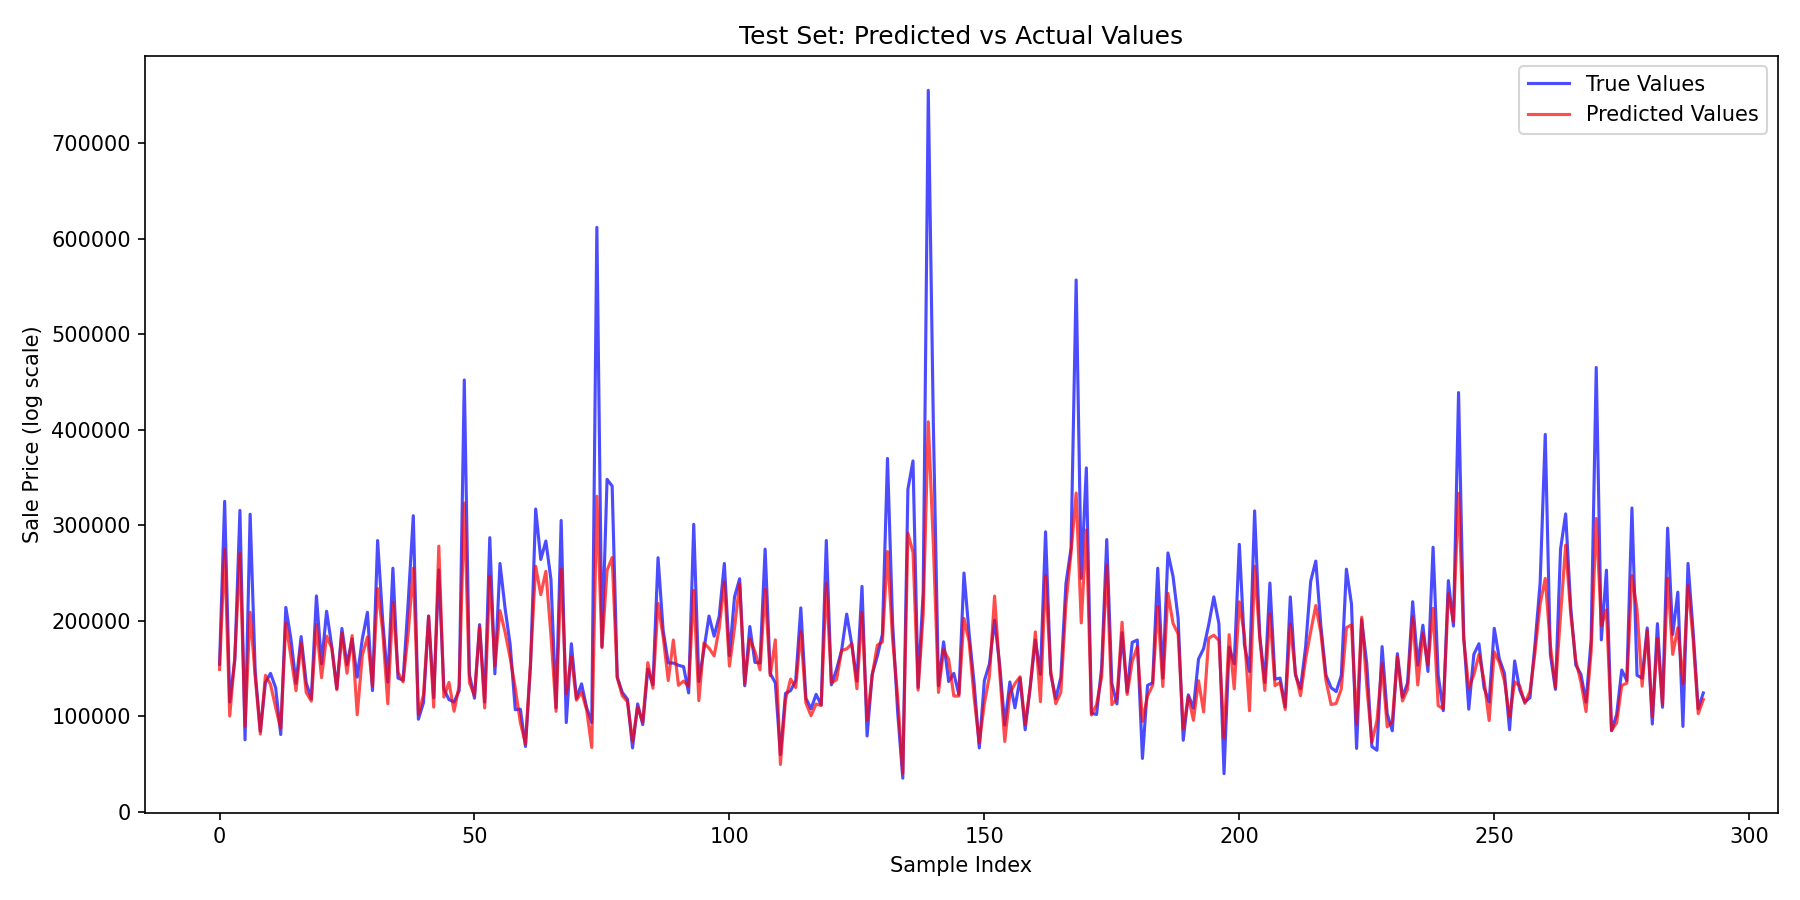
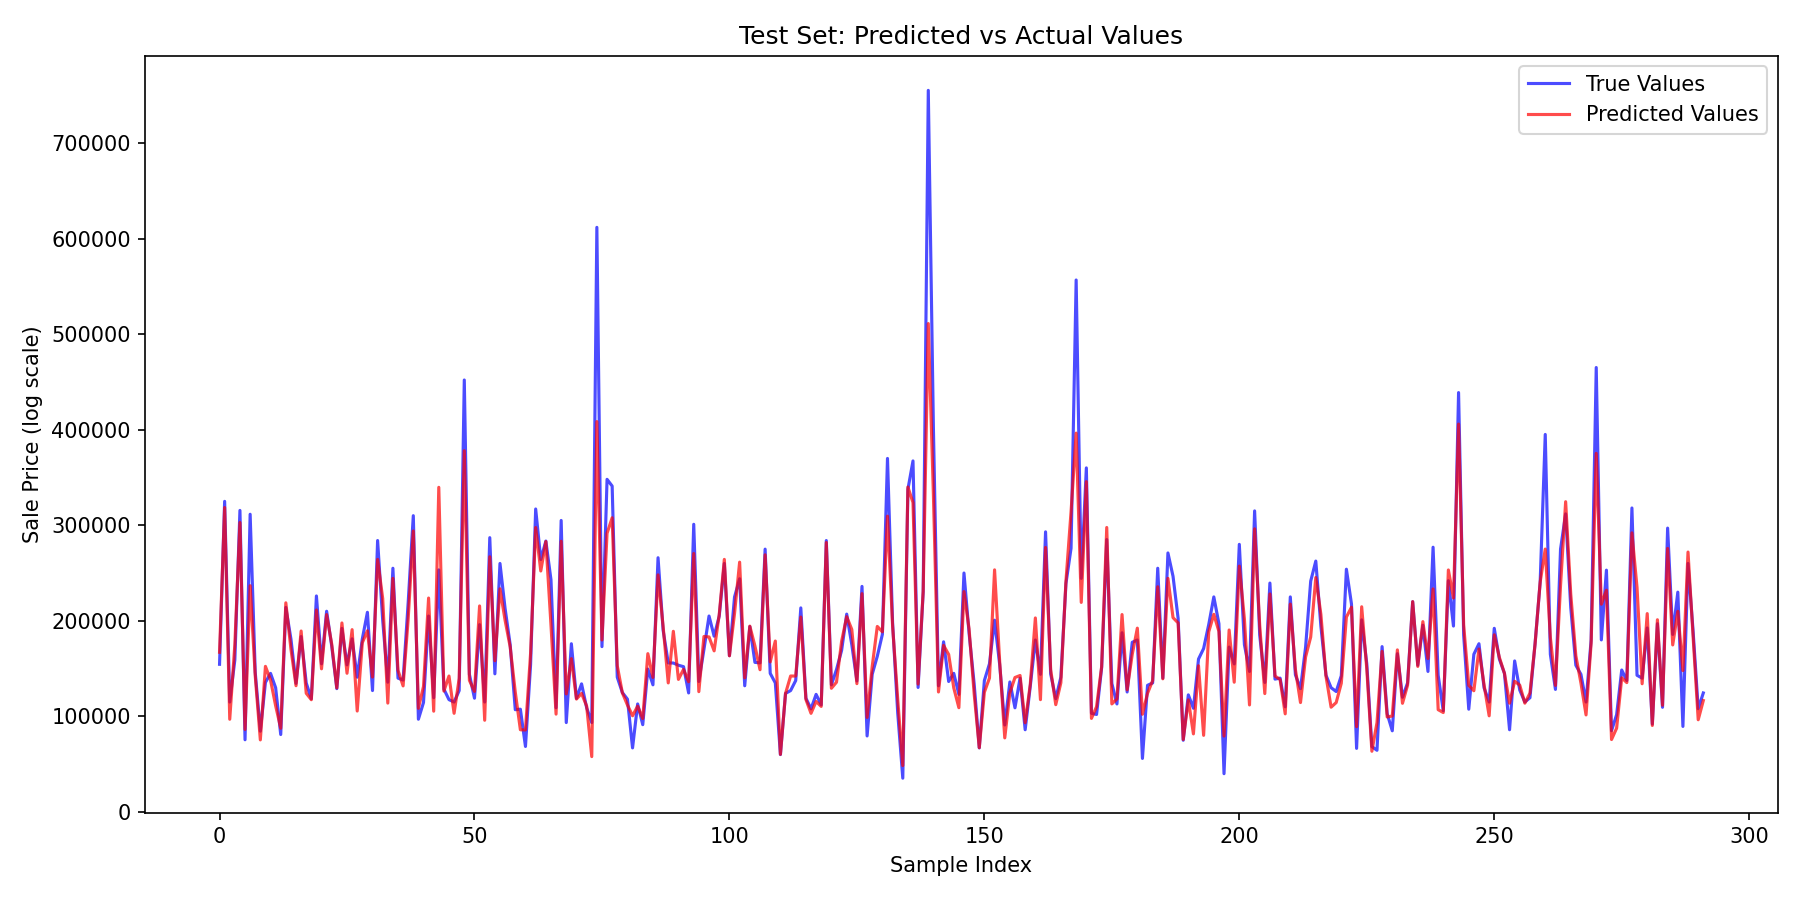
优化代码
1、超参单独一个文件写；2、调整函数位置

Changed region(s): [[0.1244, 0.4044, 0.9644, 0.8089], [0.28, 0.7778, 0.3111, 0.8089]]

diff --git a/house_price_predict/predict_3.py b/house_price_predict/predict_3.py
@@ -12,6 +12,8 @@ from sklearn.pipeline import Pipeline   # 管道操作
 from sklearn.impute import SimpleImputer    # 缺省值处理
 from sklearn.preprocessing import StandardScaler, OneHotEncoder # 标准化和独热编码
 from torch.utils.data import TensorDataset, DataLoader  # 数据集和数据加载器
+from config import *
+
 
 # 创建数据集
 def create_dataset():
@@ -61,11 +63,6 @@ def create_dataset():
     # 返回训练集和测试集，以及特征的数量
     return train_dataset, test_dataset, x_train.shape[1]
 
-# 测试主流程
-# 1. 加载数据
-train_dataset, test_dataset, feature_num = create_dataset()
-print(feature_num)
-
 # 2. 创建模型
 class Model(nn.Module):  #继承父类
     def __init__(self,device='cpu',feature_num=feature_num):
@@ -75,7 +72,7 @@ class Model(nn.Module):  #继承父类
         self.linear1 = nn.Linear(feature_num,128,device=device)
         nn.init.xavier_uniform_(self.linear1.weight)  # 初始化
         self.bn1 = nn.BatchNorm1d(128,device=device)
-        self.dropout = nn.Dropout(0.2)
+        self.dropout = nn.Dropout(0.1)
         self.linear2 = nn.Linear(128,1,device=device)
 
     # 前向传播
@@ -87,10 +84,6 @@ class Model(nn.Module):  #继承父类
         x = self.dropout(x)
         x = self.linear2(x)
         return x
-# 统一定义全局变量：device
-device = 'cuda' if torch.cuda.is_available() else 'cpu'
-# 定义模型
-model = Model(device=device,feature_num=feature_num)
 
 # 3. 自定义损失函数
 def log_rmse(y_pred, target):
@@ -99,8 +92,8 @@ def log_rmse(y_pred, target):
     return torch.sqrt( mse( torch.log(y_pred), torch.log(target) ) )
 mse_loss = nn.MSELoss()
 
-# 4. 模型训练和测试
-def train_test(model, train_dataset, test_dataset, lr, epoch_num, batch_size, device):
+# 4. 模型训练
+def train(model, train_dataset, test_dataset, lr, epoch_num, batch_size, device):
     #  将模型加载到设备
     model = model.to(device)
     # 定义优化器
@@ -109,7 +102,7 @@ def train_test(model, train_dataset, test_dataset, lr, epoch_num, batch_size, de
     train_loss_list = []
     test_loss_list = []
 
-    # 2. 模型训练和测试
+    # 2. 模型训练
     for epoch in range(epoch_num):
         model.train()
         # 2.1 创建DataLoader
@@ -137,60 +130,63 @@ def train_test(model, train_dataset, test_dataset, lr, epoch_num, batch_size, de
         train_loss_list.append(this_train_loss)
 
         print(f"epoch: {epoch+1}, train loss: {this_train_loss}")
-
     return train_loss_list
 
+def test(device):
+    # 3. 测试
+    model.eval()
+    test_loss_total = 0
 
-# 超参数
-lr = 0.1
-epoch_num = 100
-batch_size = 64
-train_loss_list= train_test(model, train_dataset, test_dataset, lr, epoch_num, batch_size, device)
+    # ### 新增：创建空列表，用于收集预测值和真实值 ###
+    all_preds = []
+    all_targets = []
 
-# 3. 测试
-model.eval()
-test_loss_total = 0
+    # 3.1 定义DataLoader
+    test_loader = DataLoader(test_dataset, batch_size=batch_size, shuffle=False)
+    # 3.2 计算测试误差
+    with torch.no_grad():  # 测试时关闭梯度计算
+        for X, y in test_loader:
+            X, y = X.to(device), y.to(device)
+            y_pred = model(X)
+            loss_value = log_rmse(y_pred.squeeze(), y)
+            # loss_value = mse_loss(y_pred.squeeze(), y)  # MAE损失
+            test_loss_total += loss_value.item() * X.shape[0]
 
-# ### 新增：创建空列表，用于收集预测值和真实值 ###
-all_preds = []
-all_targets = []
+            # ### 新增：将当前批次的预测值和真实值存入列表 ###
+            all_preds.extend(y_pred.squeeze().cpu().numpy())
+            all_targets.extend(y.cpu().numpy())
 
-# 3.1 定义DataLoader
-test_loader = DataLoader(test_dataset, batch_size=batch_size, shuffle=False)
-
-# 3.2 计算测试误差
-with torch.no_grad():   # 测试时关闭梯度计算
-    for X, y in test_loader:
-        X, y = X.to(device), y.to(device)
-        y_pred = model(X)
-        loss_value = log_rmse(y_pred.squeeze(), y)
-        # loss_value = mse_loss(y_pred.squeeze(), y)  # MAE损失
-        test_loss_total += loss_value.item() * X.shape[0]
-
-        # ### 新增：将当前批次的预测值和真实值存入列表 ###
-        all_preds.extend(y_pred.squeeze().cpu().numpy())
-        all_targets.extend(y.cpu().numpy())
-
-this_test_loss = test_loss_total / len(test_dataset)
-print(f"test loss: {this_test_loss}")
-
-# 画图
-plt.plot(train_loss_list, 'r-', label='train loss',linewidth=3)
-plt.legend()  # # 自动使用每条线的 label
+        this_test_loss = test_loss_total / len(test_dataset)
+        print(f"test loss: {this_test_loss}")
+        return all_preds,all_targets
 
 
-# ### 新增：绘制测试集预测值与真实值对比曲线 ###
-plt.figure(figsize=(12, 6))
-# 方法一：折线图（适合观察趋势）
-plt.plot(all_targets, 'b-', label='True Values', linewidth=1.5, alpha=0.7)
-plt.plot(all_preds, 'r-', label='Predicted Values', linewidth=1.5, alpha=0.7)
-plt.title('Test Set: Predicted vs Actual Values')
-plt.xlabel('Sample Index')
-plt.ylabel('Sale Price (log scale)')
-plt.legend()
-plt.tight_layout()
-plt.savefig("outputs/test_prediction_vs_actual.png", dpi=150)
-plt.show()
+if __name__ == "__main__":
+    # 1. 加载数据
+    train_dataset, test_dataset, feature_num = create_dataset()
+    print(feature_num)
+    # 定义模型
+    model = Model(device=device, feature_num=feature_num)
+    # 训练
+    train_loss_list = train(model, train_dataset, test_dataset, lr, epoch_num, batch_size, device)
+    # 测试
+    all_preds, all_targets = test(device)
+    # 画图
+    plt.plot(train_loss_list, 'r-', label='train loss',linewidth=3)
+    plt.legend()  # # 自动使用每条线的 label
+
+    # ### 新增：绘制测试集预测值与真实值对比曲线 ###
+    plt.figure(figsize=(12, 6))
+    # 方法一：折线图（适合观察趋势）
+    plt.plot(all_targets, 'b-', label='True Values', linewidth=1.5, alpha=0.7)
+    plt.plot(all_preds, 'r-', label='Predicted Values', linewidth=1.5, alpha=0.7)
+    plt.title('Test Set: Predicted vs Actual Values')
+    plt.xlabel('Sample Index')
+    plt.ylabel('Sale Price (log scale)')
+    plt.legend()
+    plt.tight_layout()
+    plt.savefig("outputs/test_prediction_vs_actual.png", dpi=150)
+    plt.show()
 
 
 

diff --git a/house_price_predict/predict_1.py b/house_price_predict/predict_1.py
@@ -13,6 +13,9 @@ from sklearn.impute import SimpleImputer    # 缺省值处理
 from sklearn.preprocessing import StandardScaler, OneHotEncoder # 标准化和独热编码
 from torch.utils.data import TensorDataset, DataLoader  # 数据集和数据加载器
 
+# 统一定义全局变量：device
+device = 'cuda' if torch.cuda.is_available() else 'cpu'
+
 # 创建数据集
 def create_dataset():
     # 1. 从文件读取数据
@@ -59,14 +62,11 @@ def create_dataset():
     train_dataset = TensorDataset(torch.tensor(x_train.values).float(), torch.tensor(y_train.values).float())
     test_dataset = TensorDataset(torch.tensor(x_test.values).float(), torch.tensor(y_test.values).float())
     # 返回训练集和测试集，以及特征的数量
+    print(f"X.shape[1]：{X.shape[1]}；x_train.shape[1]：{x_train.shape[1]}")
     return train_dataset, test_dataset, x_train.shape[1]
 
-# 测试主流程
-# 1. 加载数据
-train_dataset, test_dataset, feature_num = create_dataset()
-print(feature_num)
-
-# 2. 创建模型
+# 2. 定义模型
+feature_num = 0
 class Model(nn.Module):  #继承父类
     def __init__(self,device='cpu',feature_num=feature_num):
         # 初始化参数
@@ -87,34 +87,31 @@ class Model(nn.Module):  #继承父类
         x = self.dropout(x)
         x = self.linear2(x)
         return x
-# 统一定义全局变量：device
-device = 'cuda' if torch.cuda.is_available() else 'cpu'
-# 定义模型
-model = Model(device=device,feature_num=feature_num)
 
-# 3. 自定义损失函数
-def log_rmse(y_pred, target):
-    y_pred = torch.clamp(y_pred, 1, float("inf"))
-    mse = nn.MSELoss()
-    return torch.sqrt( mse( torch.log(y_pred), torch.log(target) ) )
-mse_loss = nn.MSELoss()
-
-# 4. 模型训练和测试
-def train_test(model, train_dataset, test_dataset, lr, epoch_num, batch_size, device):
-    #  将模型加载到设备
-    model = model.to(device)
+# 4. 模型训练和测试函数
+def train_test(train_dataset, test_dataset, lr, epoch_num, batch_size, device):
+    ######  准备工作  ######
+    # 定义模型,将模型加载到设备
+    model = Model(device=device, feature_num=feature_num).to(device)
     # 定义优化器
     optimizer = torch.optim.Adam(model.parameters(), lr=lr)
+    # 自定义损失函数
+    def log_rmse(y_pred, target):
+        y_pred = torch.clamp(y_pred, 1, float("inf"))
+        mse = nn.MSELoss()
+        return torch.sqrt(mse(torch.log(y_pred), torch.log(target)))
+    mse_loss = nn.MSELoss()
     # 定义训练误差和测试误差变化列表
     train_loss_list = []
     test_loss_list = []
 
+
     # 2. 模型训练和测试
     for epoch in range(epoch_num):
-        model.train()
         # 2.1 创建DataLoader
         train_loader = DataLoader(train_dataset, batch_size=batch_size, shuffle=True)
         train_loss_total = 0
+        model.train()
         # 2.2 按批次迭代训练模型
         for batch_idx, (X, y) in enumerate(train_loader):
             # 将数据加载到设备
@@ -157,11 +154,20 @@ def train_test(model, train_dataset, test_dataset, lr, epoch_num, batch_size, de
     return train_loss_list, test_loss_list
 
 
+
+# 测试主流程
+
 # 超参数
 lr = 0.1
 epoch_num = 100
 batch_size = 64
-train_loss_list, test_loss_list = train_test(model, train_dataset, test_dataset, lr, epoch_num, batch_size, device)
+
+# 加载数据
+train_dataset, test_dataset, feature_num = create_dataset()
+print(f"feature_num：{feature_num}")
+
+# 训练函数
+train_loss_list, test_loss_list = train_test(train_dataset, test_dataset, lr, epoch_num, batch_size, device)
 
 # 画图
 plt.plot(train_loss_list, 'r-', label='train loss',linewidth=3)

diff --git a/house_price_predict/config.py b/house_price_predict/config.py
@@ -1,0 +1,7 @@
+import torch
+
+feature_num = 100 # 全局变量
+lr = 0.1
+epoch_num = 200
+batch_size = 64
+device = 'cuda' if torch.cuda.is_available() else 'cpu'
